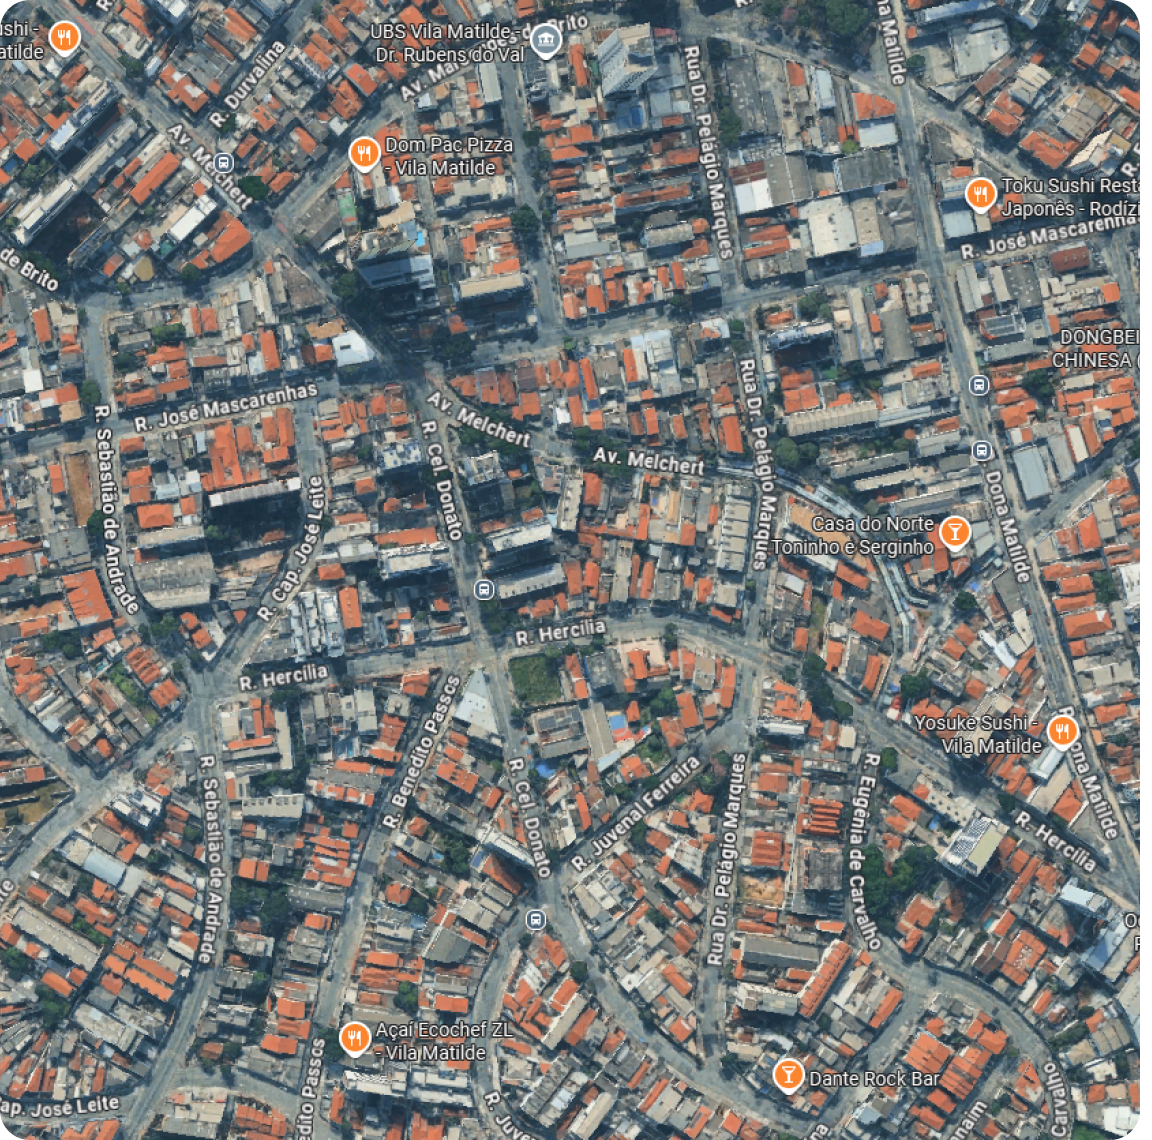
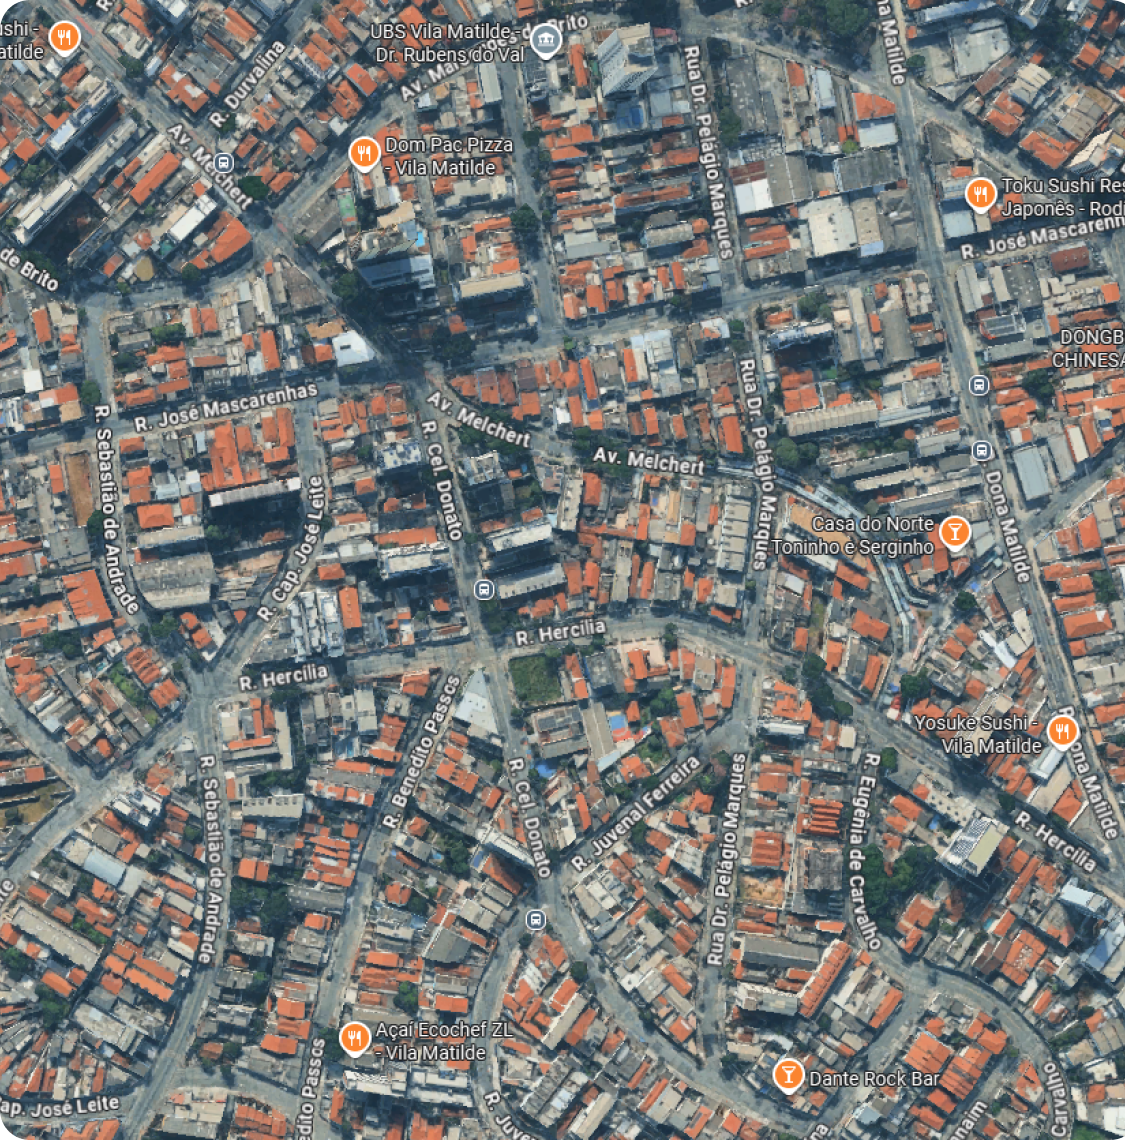
atualização html

diff --git a/index.html b/index.html
@@ -214,6 +214,7 @@
         </div>
     </main>
     <footer>
+        <section id="contato">
         <div class="footer-logo">
             <h2>Grão & <span>Aroma</span></h2>
 
@@ -239,6 +240,7 @@
 
                 <p>© Grupo 02 - 2026. Todos os direitos reservados.</p>
             </div>
+            </section>
     </footer>
 </body>
 
